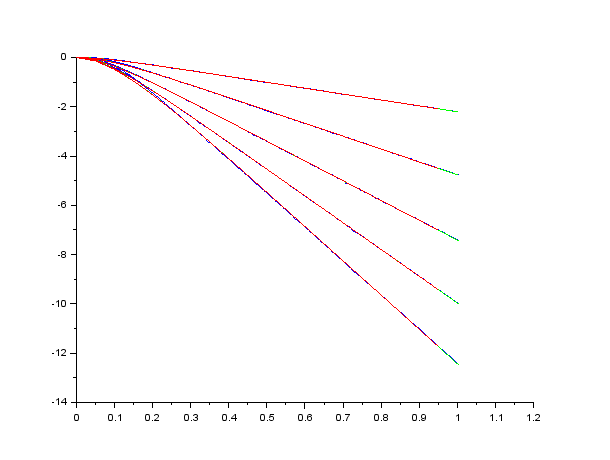
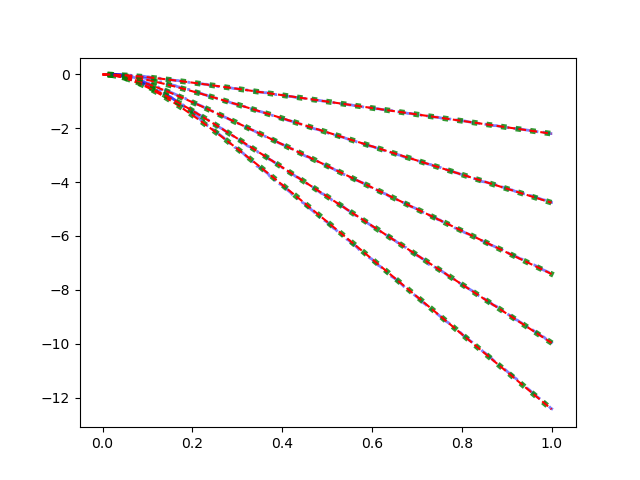
Python plots

diff --git a/RobotLab1/SciLab/DrawThetaOfT.py b/RobotLab1/SciLab/DrawThetaOfT.py
@@ -1,0 +1,25 @@
+import matplotlib.pyplot as plt
+
+def ReadFile(name):
+	f = open(name, 'r')
+	time = []
+	values = []
+	for line in f:
+		v = [float(i) for i in line.split()]
+		values.append(v[0])
+		time.append(v[1])
+	return [values, time]
+
+for idx in range(-100, -19, 20):
+	sim = ReadFile('..\\Data\\Sim' + str(idx) + '.txt')
+	data = ReadFile('..\\Data\\log' + str(idx) + '.txt')
+	model = ReadFile('..\\Data\\Model' + str(idx) + '.txt')
+
+	data[0] = [i * 0.017453 for i in data[0]]
+	data[1] = [i / 1000 for i in data[1]]
+
+	plt.plot(data[1], data[0], '-.b', alpha=0.5, linewidth=2)
+	plt.plot(model[1], model[0], ':g', alpha=0.8, linewidth=4)
+	plt.plot(sim[1], sim[0], '--r')
+
+plt.show()

diff --git a/RobotLab1/SciLab/DrawPlot.py b/RobotLab1/SciLab/DrawPlot.py
@@ -1,0 +1,17 @@
+import matplotlib.pyplot as plt
+
+def ReadFile(name):
+	f = open(name, 'r')
+	time = []
+	values = []
+	for line in f:
+		v = [float(i) for i in line.split()]
+		values.append(v[0])
+		time.append(v[1])
+	return [values, time]
+
+data = ReadFile('..\\Data\\Wnls.txt')
+
+plt.plot(data[1], data[0], '-r')
+
+plt.show()
